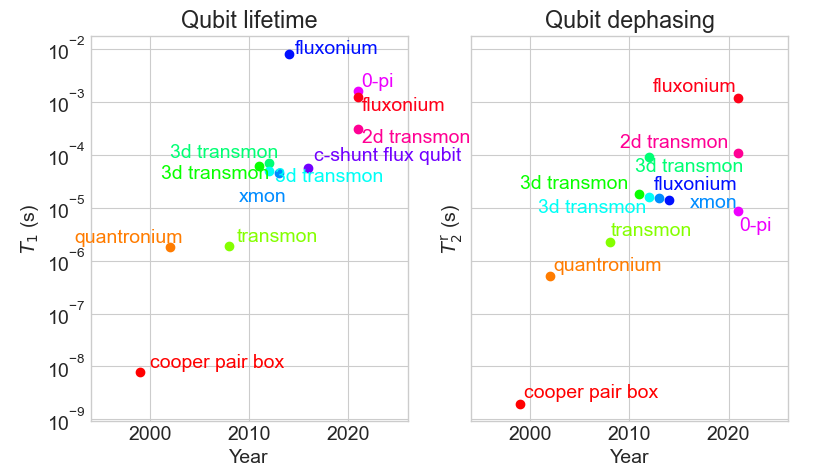
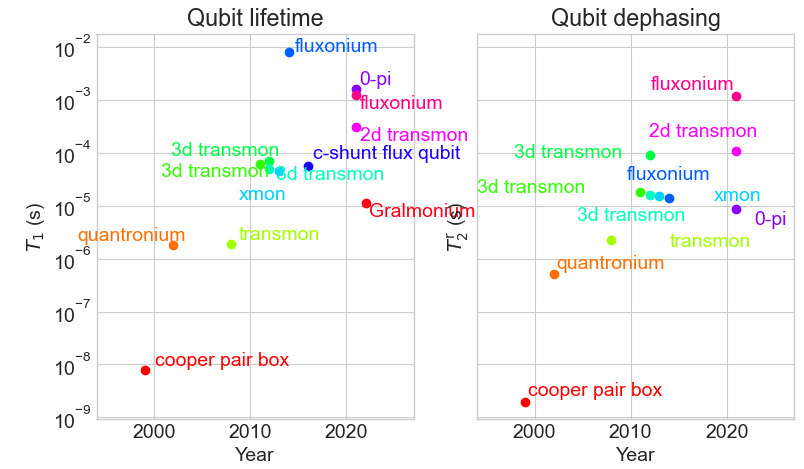
Add gralmonium

diff --git a/README.md b/README.md
@@ -19,6 +19,9 @@ Example of entries visualization are available on the jupyter notebook `visualiz
 ### Qubit coherence
 
 ![qubit coherence](doc/coherence.png "lifetime")
+### Ej/Ec ratio
+
+![qubit coherence](doc/ejec.png "lifetime")
 
 ## How entries are made?
 
@@ -106,9 +109,9 @@ The citation will be updated each time someone add its contribution to the proje
 ## References
 
 * [1] Devoret, M. H. & Schoelkopf, R. J.
-Superconducting Circuits for Quantum Information: An Outlook 
-Science, American Association for the Advancement of Science, **2013**, 339, 1169-1174 
+Superconducting Circuits for Quantum Information: An Outlook
+Science, American Association for the Advancement of Science, **2013**, 339, 1169-1174
 
 * [2] Schreier, J. A. et al.
-Suppressing charge noise decoherence in superconducting charge qubits 
+Suppressing charge noise decoherence in superconducting charge qubits
 Phys. Rev. B, American Physical Society, **2008**, 77, 180502
